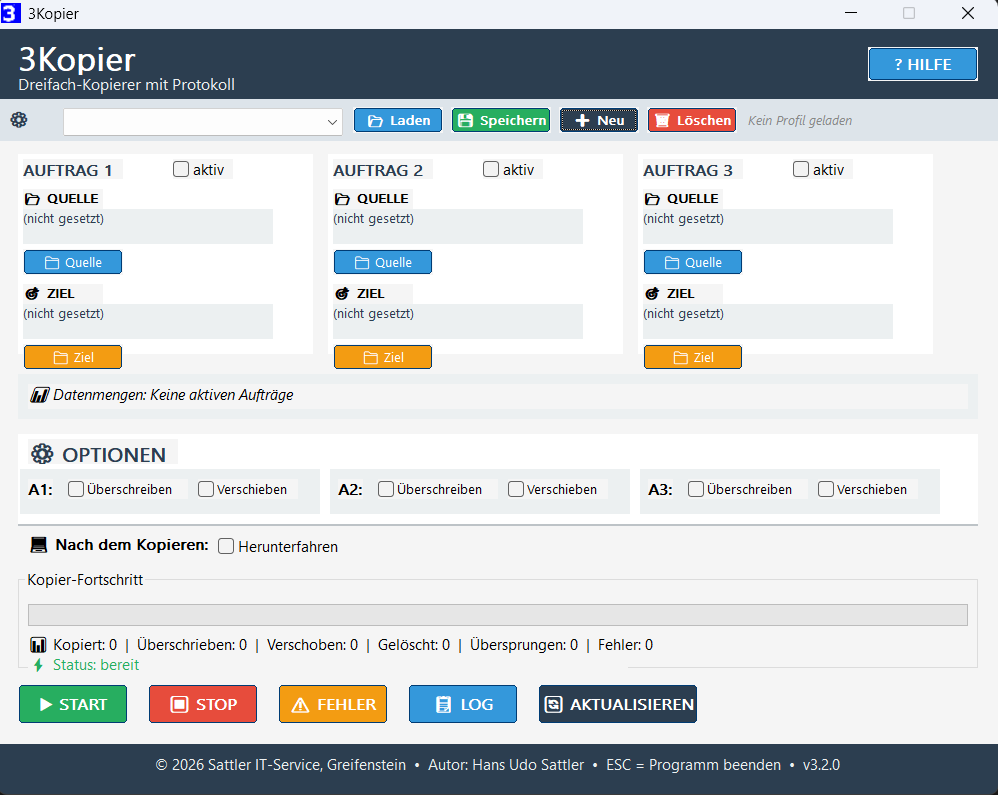
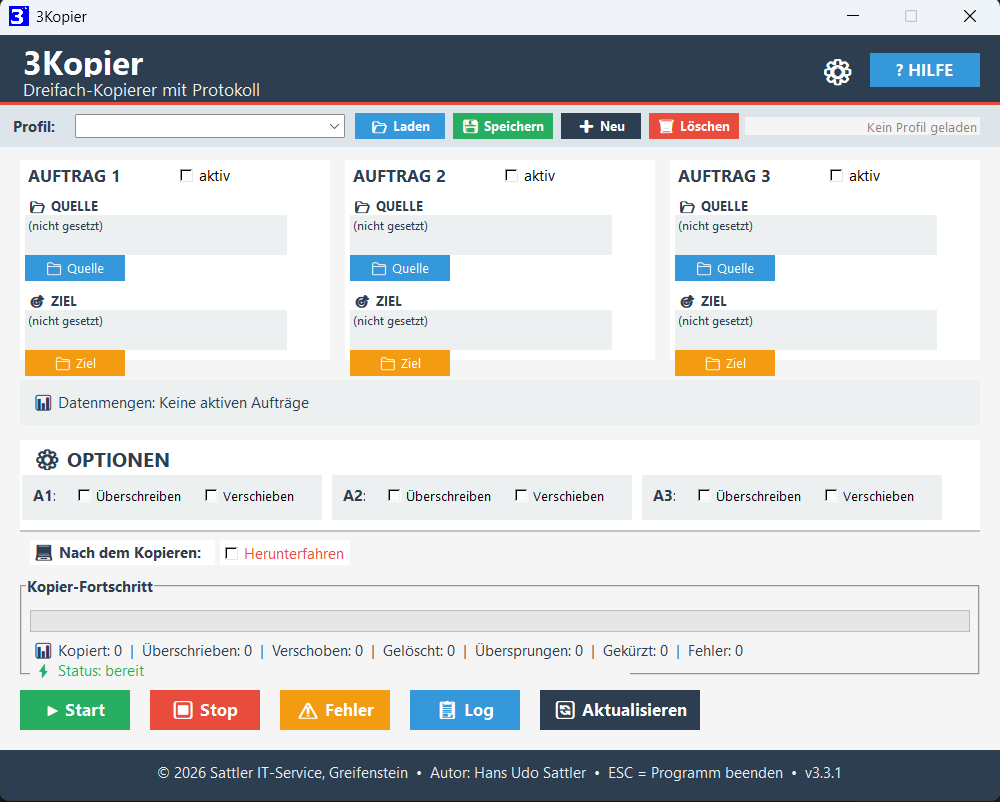
Add files via upload

diff --git a/index.html b/index.html
@@ -394,6 +394,10 @@
       <img src="screenshot-3kopier.png" alt="S-IT-3Kopier Hauptfenster">
       <div class="gallery-caption">Hauptfenster mit drei Aufträgen, Fortschritt und Protokoll</div>
     </div>
+    <div class="gallery-item" onclick="openLightbox(this)">
+      <img src="screenshot-3kopier-einstellungen.png" alt="S-IT-3Kopier Einstellungen mit Skalierung">
+      <div class="gallery-caption">Einstellungen: feste Skalierungsstufen von 90–200 %</div>
+    </div>
   </div>
 
   <!-- DOWNLOAD -->